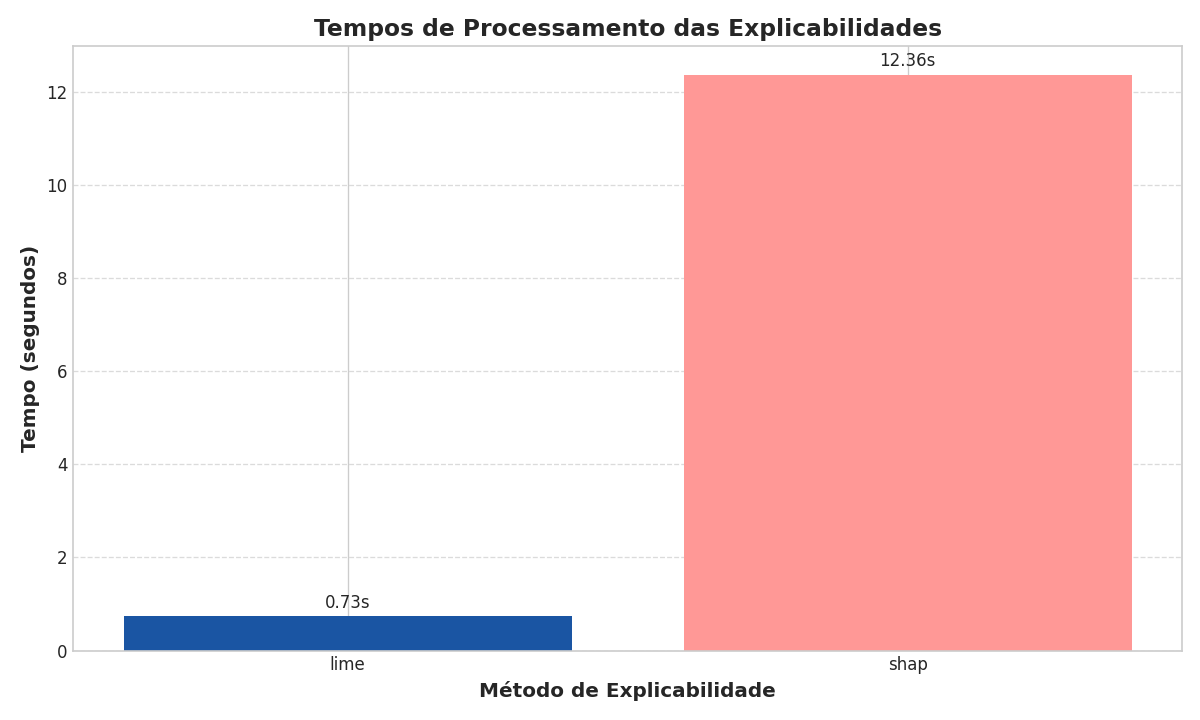
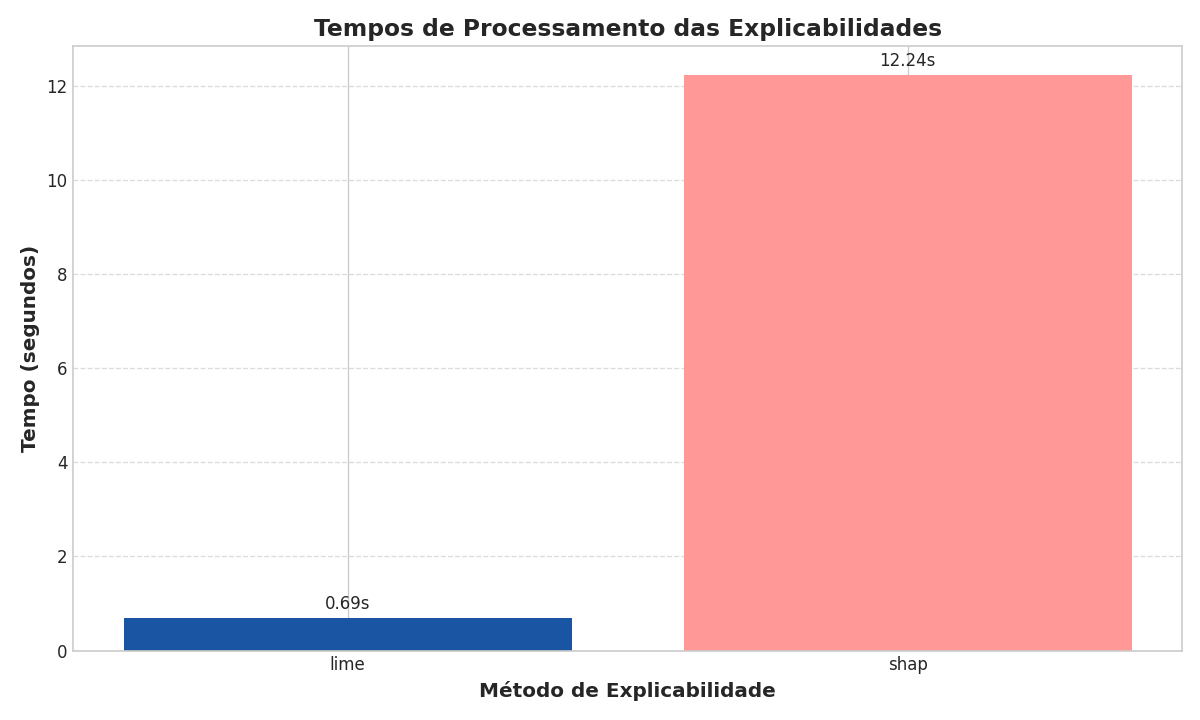
CLFE - Adicionados dados de instância de explicabilidade

diff --git a/CLFE/client/reports/client_1/detailed_report_client_1.html b/CLFE/client/reports/client_1/detailed_report_client_1.html
@@ -55,7 +55,7 @@
             <h3>Tabela 2: Métricas de Teste</h3>
             <div class="table-container"><table class="metrics-table"><thead><tr><th>Ronda</th><th>Test Loss</th><th>Test Rmse</th><th>Test Accuracy</th><th>Test Precision</th><th>Test Recall</th><th>Test F1</th></tr></thead><tbody><tr><td>1</td><td>0.3192</td><td>0.0867</td><td>0.9900</td><td>0.8776</td><td>0.9773</td><td>0.9247</td></tr><tr><td>2</td><td>0.3027</td><td>0.0758</td><td>0.9943</td><td>0.9167</td><td>1</td><td>0.9565</td></tr><tr><td>3</td><td>0.3039</td><td>0.0754</td><td>0.9943</td><td>0.9167</td><td>1</td><td>0.9565</td></tr><tr><td>4</td><td>0.2997</td><td>0.0752</td><td>0.9943</td><td>0.9167</td><td>1</td><td>0.9565</td></tr><tr><td>5</td><td>0.2966</td><td>0.0749</td><td>0.9943</td><td>0.9167</td><td>1</td><td>0.9565</td></tr></tbody></table></div>
             <h3>Tabela 3: Tempos de Processamento (segundos)</h3>
-            <div class="table-container"><table class="metrics-table"><thead><tr><th>Ronda</th><th>Fit</th><th>Evaluate</th><th>Lime</th><th>Shap</th></tr></thead><tbody><tr><td>1</td><td>0.7091</td><td>0.0023</td><td>-</td><td>-</td></tr><tr><td>2</td><td>0.0990</td><td>0.0023</td><td>-</td><td>-</td></tr><tr><td>3</td><td>0.1015</td><td>0.0024</td><td>-</td><td>-</td></tr><tr><td>4</td><td>0.1074</td><td>0.0026</td><td>-</td><td>-</td></tr><tr><td>5</td><td>0.1018</td><td>0.0023</td><td>0.7313</td><td>12.1510</td></tr></tbody></table></div>
+            <div class="table-container"><table class="metrics-table"><thead><tr><th>Ronda</th><th>Fit</th><th>Evaluate</th><th>Lime</th><th>Shap</th></tr></thead><tbody><tr><td>1</td><td>0.4890</td><td>0.0021</td><td>-</td><td>-</td></tr><tr><td>2</td><td>0.0963</td><td>0.0028</td><td>-</td><td>-</td></tr><tr><td>3</td><td>0.1036</td><td>0.0022</td><td>-</td><td>-</td></tr><tr><td>4</td><td>0.0938</td><td>0.0022</td><td>-</td><td>-</td></tr><tr><td>5</td><td>0.1083</td><td>0.0024</td><td>0.6935</td><td>11.6991</td></tr></tbody></table></div>
         </div>
 
         <div class="section plot-container">
@@ -90,14 +90,18 @@
         
         <div class="section">
             <h2>Explicabilidade (Resultados Finais da Última Ronda)</h2>
+            
+            <h3>Instância Analisada</h3>
+            <div style="background-color:#f8f9fa; padding:15px; border-left:3px solid #1abc9c; margin-bottom:20px;">
+                <p><em>Informações da instância não disponíveis</em></p>
+            </div>
+            
             <h3>Tempos de Explicabilidade</h3>
             <img src="explainability_times.png" alt="Tempos de Explicabilidade" style="max-width: 600px;" onerror="this.style.display='none';"/>
+            
             <div style="display: flex; flex-wrap: wrap; gap: 20px; justify-content: space-between; margin-top: 20px;">
                 <div style="flex:1; min-width:300px;">
                     <h3>LIME</h3>
-                    <div style="background-color:#f8f9fa; padding:10px; border-left:3px solid #1abc9c; margin-bottom:15px;">
-                        <p><em>Informações da instância não disponíveis</em></p>
-                    </div>
                     <img src="lime_final.png" alt="LIME final" style="width:100%; max-width:600px;" onerror="this.style.display='none'; this.parentElement.innerHTML += '<p><em>Visualização LIME não disponível.</em></p>';"><p><a href="lime_explanation.txt" target="_blank">Ver LIME (texto)</a></p><p><a href="lime_explanation_formatado.txt" target="_blank">Ver LIME (formatado)</a></p>
                 </div>
                 <div style="flex:1; min-width:300px;">
@@ -129,7 +133,7 @@
         </div>
         
         <div class="footer">
-            <p><em>Relatório gerado automaticamente em 2025-05-07 08:24:04</em></p>
+            <p><em>Relatório gerado automaticamente em 2025-05-07 08:54:53</em></p>
         </div>
     </body>
     </html>

diff --git a/CLFE/client/reports/client_2/detailed_report_client_2.html b/CLFE/client/reports/client_2/detailed_report_client_2.html
@@ -55,7 +55,7 @@
             <h3>Tabela 2: Métricas de Teste</h3>
             <div class="table-container"><table class="metrics-table"><thead><tr><th>Ronda</th><th>Test Loss</th><th>Test Rmse</th><th>Test Accuracy</th><th>Test Precision</th><th>Test Recall</th><th>Test F1</th></tr></thead><tbody><tr><td>1</td><td>0.3171</td><td>0.0786</td><td>0.9929</td><td>0.9184</td><td>0.9783</td><td>0.9474</td></tr><tr><td>2</td><td>0.1690</td><td>0.0649</td><td>0.9957</td><td>0.9388</td><td>1</td><td>0.9684</td></tr><tr><td>3</td><td>0.1490</td><td>0.0559</td><td>0.9957</td><td>0.9388</td><td>1</td><td>0.9684</td></tr><tr><td>4</td><td>0.1453</td><td>0.0476</td><td>0.9972</td><td>0.9583</td><td>1</td><td>0.9787</td></tr><tr><td>5</td><td>0.1437</td><td>0.0415</td><td>0.9986</td><td>0.9787</td><td>1</td><td>0.9892</td></tr></tbody></table></div>
             <h3>Tabela 3: Tempos de Processamento (segundos)</h3>
-            <div class="table-container"><table class="metrics-table"><thead><tr><th>Ronda</th><th>Fit</th><th>Evaluate</th><th>Lime</th><th>Shap</th></tr></thead><tbody><tr><td>1</td><td>0.7071</td><td>0.0023</td><td>-</td><td>-</td></tr><tr><td>2</td><td>0.0985</td><td>0.0024</td><td>-</td><td>-</td></tr><tr><td>3</td><td>0.1063</td><td>0.0023</td><td>-</td><td>-</td></tr><tr><td>4</td><td>0.1052</td><td>0.0025</td><td>-</td><td>-</td></tr><tr><td>5</td><td>0.1017</td><td>0.0024</td><td>0.7316</td><td>12.3635</td></tr></tbody></table></div>
+            <div class="table-container"><table class="metrics-table"><thead><tr><th>Ronda</th><th>Fit</th><th>Evaluate</th><th>Lime</th><th>Shap</th></tr></thead><tbody><tr><td>1</td><td>0.4862</td><td>0.0023</td><td>-</td><td>-</td></tr><tr><td>2</td><td>0.0980</td><td>0.0025</td><td>-</td><td>-</td></tr><tr><td>3</td><td>0.1008</td><td>0.0023</td><td>-</td><td>-</td></tr><tr><td>4</td><td>0.0960</td><td>0.0020</td><td>-</td><td>-</td></tr><tr><td>5</td><td>0.1089</td><td>0.0026</td><td>0.6930</td><td>12.2379</td></tr></tbody></table></div>
         </div>
 
         <div class="section plot-container">
@@ -90,14 +90,18 @@
         
         <div class="section">
             <h2>Explicabilidade (Resultados Finais da Última Ronda)</h2>
+            
+            <h3>Instância Analisada</h3>
+            <div style="background-color:#f8f9fa; padding:15px; border-left:3px solid #1abc9c; margin-bottom:20px;">
+                <p><em>Informações da instância não disponíveis</em></p>
+            </div>
+            
             <h3>Tempos de Explicabilidade</h3>
             <img src="explainability_times.png" alt="Tempos de Explicabilidade" style="max-width: 600px;" onerror="this.style.display='none';"/>
+            
             <div style="display: flex; flex-wrap: wrap; gap: 20px; justify-content: space-between; margin-top: 20px;">
                 <div style="flex:1; min-width:300px;">
                     <h3>LIME</h3>
-                    <div style="background-color:#f8f9fa; padding:10px; border-left:3px solid #1abc9c; margin-bottom:15px;">
-                        <p><em>Informações da instância não disponíveis</em></p>
-                    </div>
                     <img src="lime_final.png" alt="LIME final" style="width:100%; max-width:600px;" onerror="this.style.display='none'; this.parentElement.innerHTML += '<p><em>Visualização LIME não disponível.</em></p>';"><p><a href="lime_explanation.txt" target="_blank">Ver LIME (texto)</a></p><p><a href="lime_explanation_formatado.txt" target="_blank">Ver LIME (formatado)</a></p>
                 </div>
                 <div style="flex:1; min-width:300px;">
@@ -129,7 +133,7 @@
         </div>
         
         <div class="footer">
-            <p><em>Relatório gerado automaticamente em 2025-05-07 08:24:04</em></p>
+            <p><em>Relatório gerado automaticamente em 2025-05-07 08:54:54</em></p>
         </div>
     </body>
     </html>

diff --git a/CLFE/client/report_helpers/explainability_processing.py b/CLFE/client/report_helpers/explainability_processing.py
@@ -161,6 +161,47 @@ def generate_explainability(explainer, X_train, base_reports, sample_idx=None):
                 with open(lime_explainer_path, 'w') as f:
                     json.dump(explanation_data_to_save, f, indent=4, default=lambda o: str(o) if isinstance(o, (np.integer, np.floating, Path, datetime)) else repr(o))
                 logger.info(f"LIME explainer com payload salvo em {lime_explainer_path}")
+                
+                # NOVO: Salvar explained_instance_info.json para o relatório HTML
+                instance_info_path = base_reports / "explained_instance_info.json"
+                try:
+                    # Extrair os valores das principais features para exibição
+                    features_dict = {}
+                    if lime_exp.as_list() and original_values_dict:
+                        # Pegar até 20 features com maior impacto
+                        for feature_idx, _ in sorted(lime_exp.as_list(), key=lambda x: abs(x[1]), reverse=True)[:20]:
+                            feature_name = explainer.feature_names[feature_idx]
+                            # Usar valor original quando disponível
+                            if feature_name in original_values_dict:
+                                features_dict[feature_name] = original_values_dict[feature_name]
+                            # Caso contrário usar valor normalizado
+                            else:
+                                features_dict[feature_name] = float(instance[feature_idx])
+                    
+                    # Determinar a classe predita
+                    predicted_class = "Ataque" if prediction > 0.5 else "Normal"
+                    prediction_confidence = round((prediction if prediction > 0.5 else 1 - prediction) * 100, 2)
+                    
+                    # Criar dicionário completo de informações da instância
+                    instance_info = {
+                        'original_index': sample_idx,
+                        'prediction': round(float(prediction), 5),
+                        'predicted_class': predicted_class,
+                        'prediction_confidence': prediction_confidence,
+                        'original_target': original_target,
+                        'original_target_class': original_target_class,
+                        'prediction_correct': prediction_correct,
+                        'feature_count': len(explainer.feature_names),
+                        'features': features_dict
+                    }
+                    
+                    # Salvar as informações
+                    with open(instance_info_path, 'w') as f:
+                        json.dump(instance_info, f, indent=4, default=lambda o: str(o) if isinstance(o, (np.integer, np.floating)) else repr(o))
+                    
+                    logger.info(f"Informações da instância salvas em {instance_info_path}")
+                except Exception as e:
+                    logger.error(f"Erro ao salvar explained_instance_info.json: {e}", exc_info=True)
             except Exception as e:
                 logger.error(f"Erro ao salvar LIME explainer com payload: {e}", exc_info=True)
 

diff --git a/CLFE/client/report_helpers/html_generation.py b/CLFE/client/report_helpers/html_generation.py
@@ -29,10 +29,10 @@ def generate_html_report(history, plot_files, base_reports, client_id, dataset_p
     
     # Preparar conteúdo das informações da instância LIME
     lime_instance_html = "<p><em>Informações da instância não disponíveis</em></p>"
-    if 'lime_instance_info.json' in os.listdir(base_reports):
+    if 'explained_instance_info.json' in os.listdir(base_reports):
         try:
             # Carregar informações da instância
-            with open(base_reports/'lime_instance_info.json', 'r') as f:
+            with open(base_reports/'explained_instance_info.json', 'r') as f:
                 instance_info = json.load(f)
             
             # Criar HTML com as informações da instância
@@ -284,14 +284,18 @@ def generate_html_report(history, plot_files, base_reports, client_id, dataset_p
         
         <div class="section">
             <h2>Explicabilidade (Resultados Finais da Última Ronda)</h2>
+            
+            <h3>Instância Analisada</h3>
+            <div style="background-color:#f8f9fa; padding:15px; border-left:3px solid #1abc9c; margin-bottom:20px;">
+                {lime_instance_html}
+            </div>
+            
             <h3>Tempos de Explicabilidade</h3>
             <img src="explainability_times.png" alt="Tempos de Explicabilidade" style="max-width: 600px;" onerror="this.style.display='none';"/>
+            
             <div style="display: flex; flex-wrap: wrap; gap: 20px; justify-content: space-between; margin-top: 20px;">
                 <div style="flex:1; min-width:300px;">
                     <h3>LIME</h3>
-                    <div style="background-color:#f8f9fa; padding:10px; border-left:3px solid #1abc9c; margin-bottom:15px;">
-                        {lime_instance_html}
-                    </div>
                     <img src="lime_final.png" alt="LIME final" style="width:100%; max-width:600px;" onerror="this.style.display='none'; this.parentElement.innerHTML += '<p><em>Visualização LIME não disponível.</em></p>';"><p><a href="lime_explanation.txt" target="_blank">Ver LIME (texto)</a></p><p><a href="lime_explanation_formatado.txt" target="_blank">Ver LIME (formatado)</a></p>
                 </div>
                 <div style="flex:1; min-width:300px;">

diff --git a/README.md b/README.md
@@ -106,6 +106,7 @@ O dataset é particionado usando `StratifiedKFold` para preservar a proporção 
 - **Plots de Evolução:** `reports/client_X/<metrica>_evolution.png` (treino/validação/teste) e **gráficos de tempos**:
     - `reports/client_X/processing_times_evolution.png` (tempo de treino/avaliação por ronda)
     - `reports/client_X/explainability_times.png` (tempo LIME/SHAP – apenas última ronda)
+    - `reports/client_X/explained_instance_info.json` (informações detalhadas da instância analisada)
 - **Explicabilidade LIME:**
     - `reports/client_X/lime_final.png` (Top 10 Features)
     - `reports/client_X/lime_final.html` (Explicação Completa)
@@ -118,7 +119,7 @@ O dataset é particionado usando `StratifiedKFold` para preservar a proporção 
     - `reports/client_X/shap_temporal_heatmap.png` (Mapa de calor temporal)
     - `reports/client_X/shap_temporal_index_importance.png` (Importância por índice temporal)
     - `reports/client_X/shap_timestamp_features_importance.png` (Importância das features derivadas de timestamp)
-- **Relatório HTML Consolidado:** `reports/client_X/final_report.html` (métricas, gráficos de evolução e tempos, LIME Top-10, SHAP, tabelas detalhadas)
+- **Relatório HTML Consolidado:** `reports/client_X/final_report.html` (métricas, gráficos de evolução e tempos, seção "Instância Analisada", LIME Top-10, SHAP, tabelas detalhadas)
 - **Ferramenta de Explicabilidade Interativa:** `explain_instance.py` (permite selecionar e explicar qualquer instância individual)
 
 ## Estado Atual
@@ -131,6 +132,7 @@ O dataset é particionado usando `StratifiedKFold` para preservar a proporção 
 - Explicabilidade (LIME/SHAP) gerando visualizações categorizadas por tipo de feature
 - Relatórios HTML finais detalhados com múltiplos gráficos e visualizações
 - Implementação do sistema de metadados para rastreabilidade completa das features
+- **NOVO:** Relatório HTML melhorado com seção dedicada "Instância Analisada" mostrando detalhes da previsão
 - **NOVO:** Gráficos de tempos criados (`processing_times_evolution.png`, `explainability_times.png`)
 - **NOVO:** Correção de gráficos para mostrar o número correto de rondas (5 em vez de 10)
 - **NOVO:** Interface de relatório melhorada com apresentação lado a lado de LIME/SHAP

diff --git a/ESTADOATUAL.md b/ESTADOATUAL.md
@@ -1,6 +1,6 @@
 # Estado Atual do Projeto – CLFE (Classificação Linear Federada Explicável)
 
-> Última atualização: 2025-05-07 09:31
+> Última atualização: 2025-05-07 10:08
 
 ---
 
@@ -24,7 +24,7 @@
 | ✅ | Conversão RLFE → **CLFE** (sigmoid + BCE) | Modelo |
 | ✅ | Métricas de classificação (acc/prec/recall/F1) | Modelo |
 | ✅ | Sistema de **metadados de features** | Explainability |
-| ✅ | Gráficos completos (métricas, tempos e `explainability_times.png`) + relatório HTML | Explainability |
+| ✅ | Gráficos completos, `explainability_times.png` e seção "Instância Analisada" | Explainability |
 | ✅ | Módulo `export_utils.py` unifica exportação de artefatos | Infraestrutura |
 | 🔄 | Saída de explicações em `instance_explanations/` | Explainability |
 | 🔄 | Investigar *extra_feature_X* & alinhar datasets | Dados |
@@ -58,7 +58,7 @@ Legenda: ✅ Concluído 🔄 Em progresso ☐ Pendente
 - ☐ Explorar regularização / múltiplas camadas se necessário
 
 ### 3.4 Explicabilidade
-- ✅ LIME/SHAP visualizações e **gráficos de tempos (processing_times, explainability_times)**
+- ✅ LIME/SHAP visualizações, **gráficos de tempos** e seção **"Instância Analisada"** no relatório
 - ✅ SHAP global + categorias específicas (`dl_bitrate`, …)
 - 🔄 Gravar todas as explicações em `instance_explanations/`
 - ☐ Incluir categoria **time_features** nos gráficos agregados
@@ -95,6 +95,7 @@ Legenda: ✅ Concluído 🔄 Em progresso ☐ Pendente
 
 | Data | Alteração | Autor |
 |------|-----------|-------|
+| 2025-05-07 | Melhorias no relatório: seção "Instância Analisada" + `explained_instance_info.json` | _AI assistant_ |
 | 2025-05-07 | Gráficos de tempos corrigidos + novo `explainability_times.png` | _AI assistant_ |
 | 2025-05-06 | Criação do módulo `export_utils.py` e atualização geral | _AI assistant_ |
 | 2025-05-06 | Documento reestruturado: visão geral, kanban, roadmap | _AI assistant_ |
